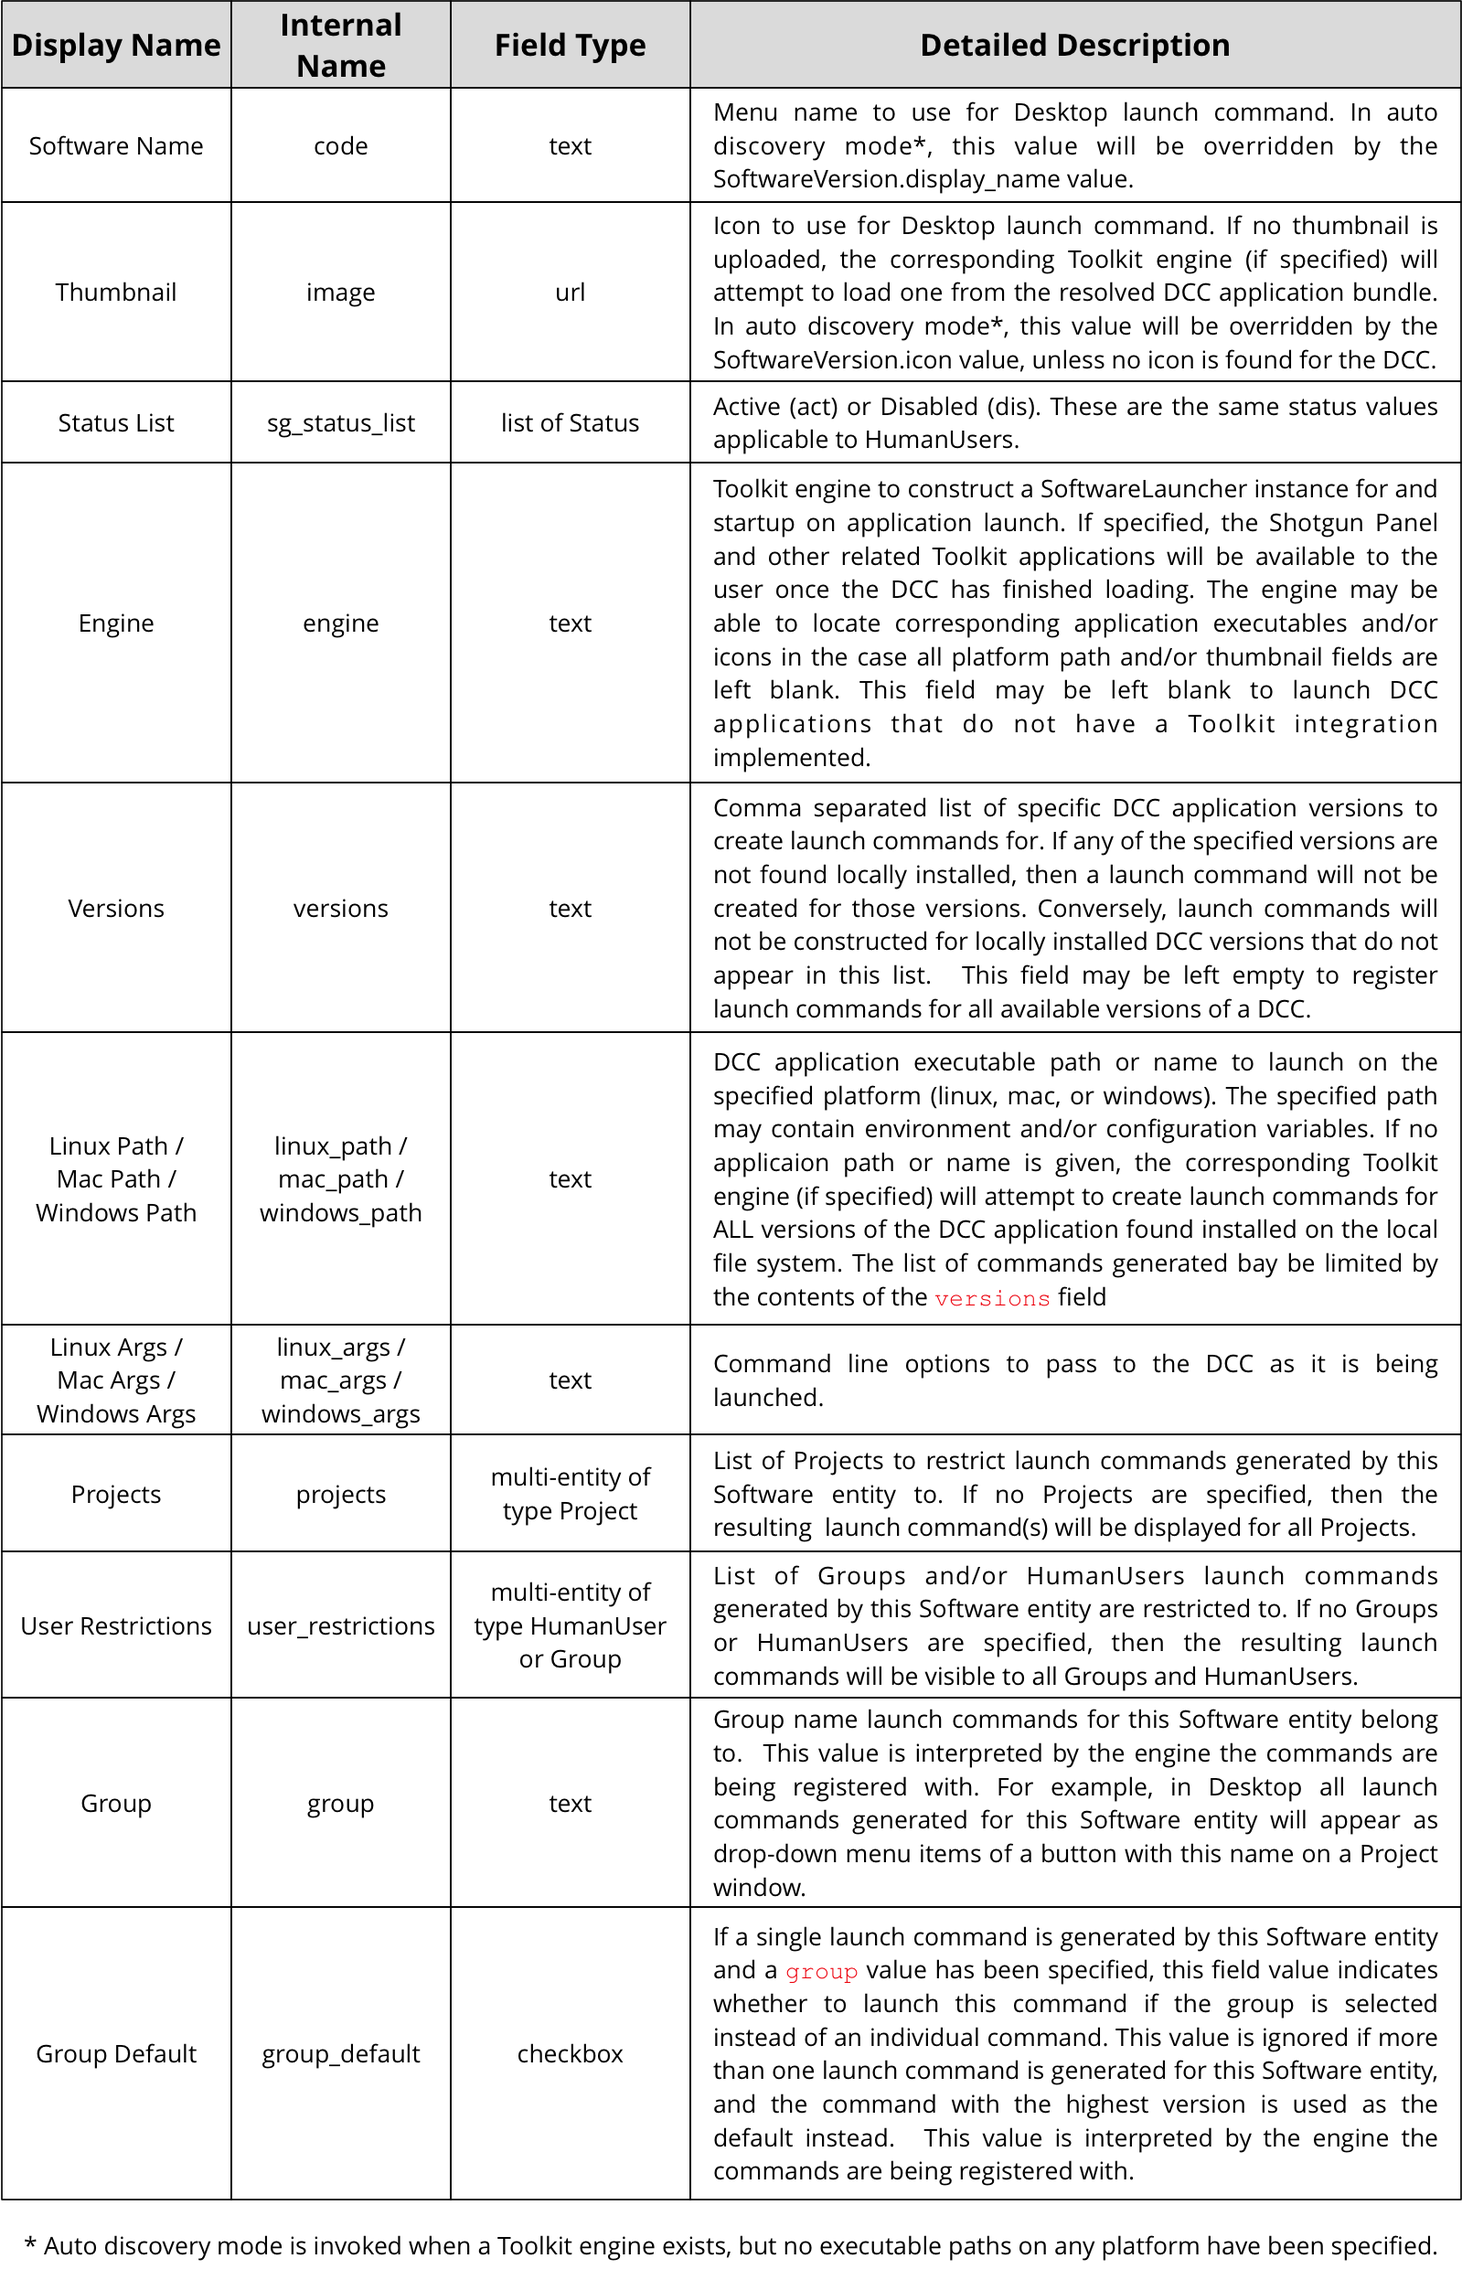
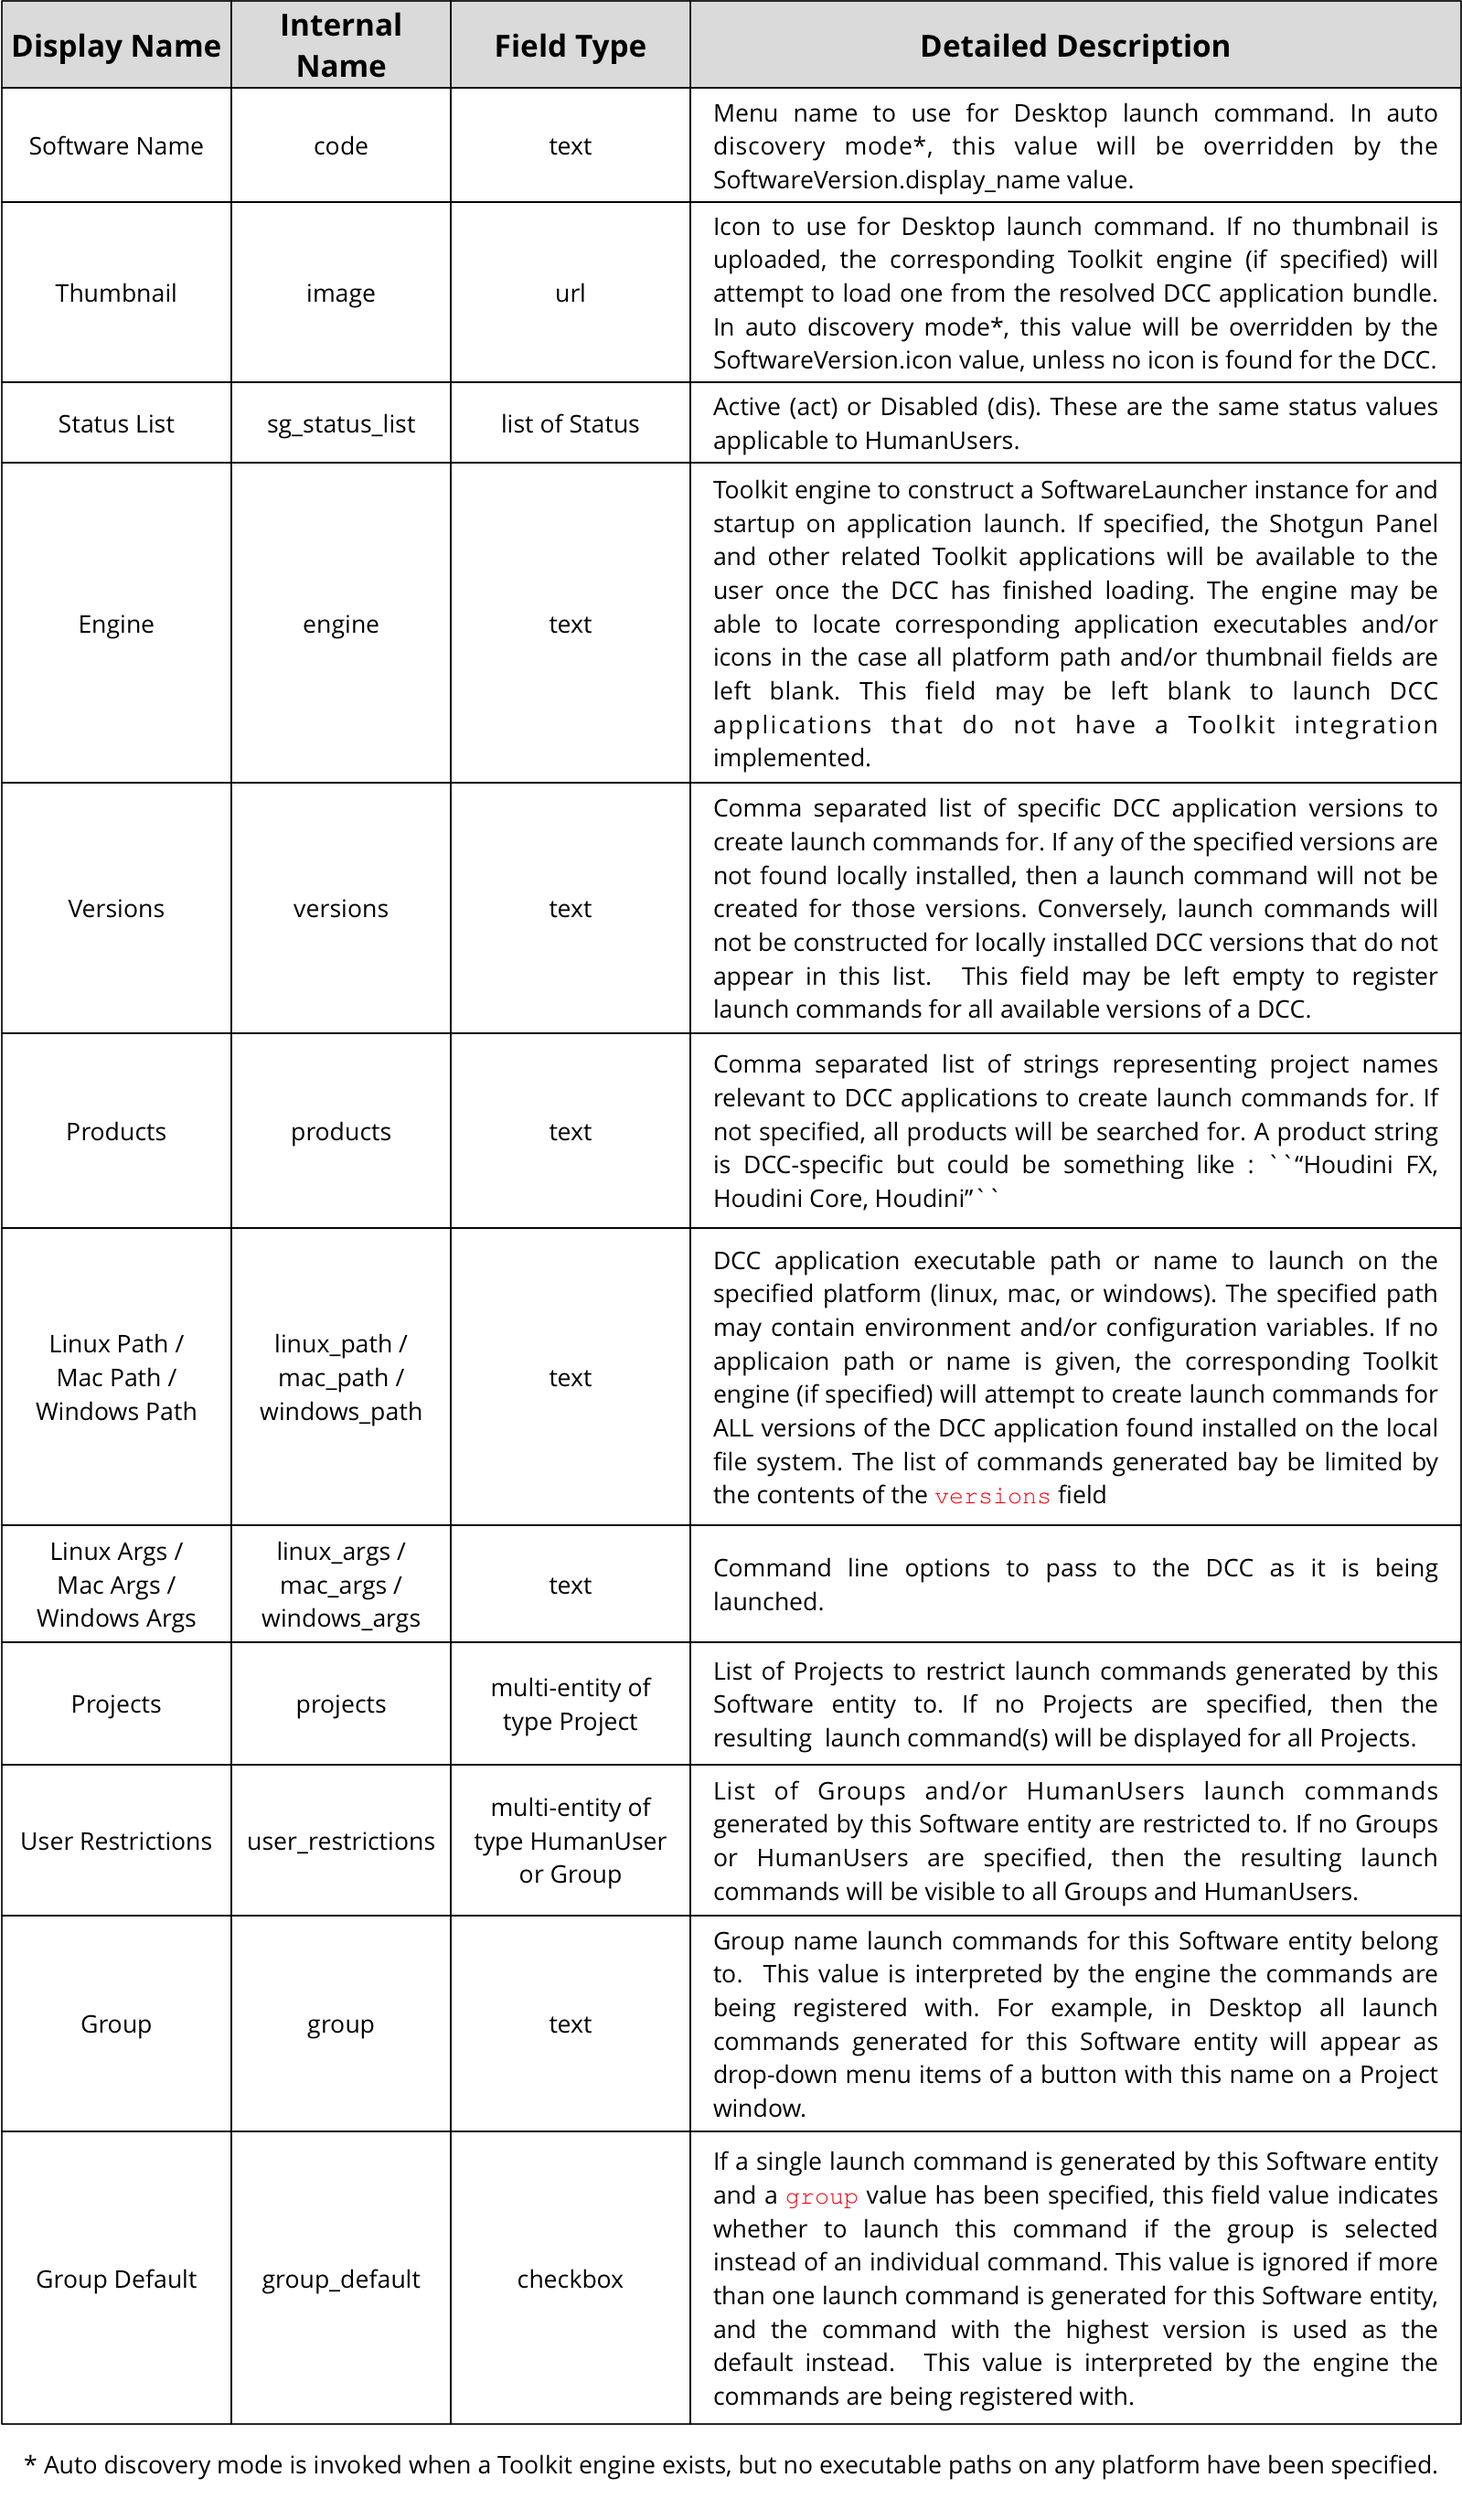
Updated with latest changes to API; Placeholder images for Software entities

diff --git a/docs/platform.rst b/docs/platform.rst
@@ -862,7 +862,7 @@ using the core interface::
      
     # Use the SoftwareLauncher instance to find a list of Maya versions installed on the 
     # local filesystem. A list of SoftwareVersion instances is returned.
-    software_versions = software_launcher.scan_software()
+    software_versions = software_launcher.get_supported_software()
      
     # Ask the SoftwareLauncher instance to prepare an environment to launch Maya in.
     # For simplicity, use the first version returned from the list of software_versions.
@@ -875,8 +875,8 @@ using the core interface::
     launch_command = "%s %s" % (launch_info.path, launch_info.args)
     subprocess.Popen([launch_command], env=launch_info.environment)
 
-Additionally, more robust launch applications can utilize Software entries in Shotgun to determine
-information about DCCs that are available to launch.
+More robust launch applications can utilize :ref:`Configuration Using the Software Entity in Shotgun`
+to determine information about DCCs that are available to launch.
 
 
 Engine Implementation
@@ -892,10 +892,10 @@ directory:
 
 Since the launch logic for the engine is invoked while the engine is not actually running, the
 :class:`~SoftwareLauncher` base class provides functionality similar to the :class:`~Engine` base
-class. Two SoftwareLauncher methods that *must* be implemented by the engine are :meth:`~SoftwareLauncher.scan_software`
-and :meth:`~SoftwareLauncher.prepare_launch`. The scan_software method is responsible for 
+class. Two SoftwareLauncher methods that *must* be implemented by an engine are :meth:`~SoftwareLauncher._scan_software`
+and :meth:`~SoftwareLauncher.prepare_launch`. The ``_scan_software`` method is responsible for
 discovering all executable paths for the related DCC installed on the local filesystem and returns
-a list of :class:`SoftwareVersion` instances representing each executable found. The prepare_launch
+a list of :class:`SoftwareVersion` instances representing each executable found. The ``prepare_launch``
 method establishes the environment to launch the DCC in, confirms the correct executable path to
 launch, and supplies command line arguments required for launch. This method returns a :class:`LaunchInformation`
 instance that contains all information required to successfully launch the DCC and startup the
@@ -905,7 +905,7 @@ following::
     from sgtk.platform import SoftwareLauncher, SoftwareVersion, LaunchInformation
 
     class MayaLauncher(SoftwareLauncher):
-        def scan_software(self, versions=None, display_name=None, icon=None):
+        def _scan_software(self):
             # Construct a list of SoftwareVersion instances representing all versions of the DCC
             # installed on the local filesystem.
             software_versions = []
